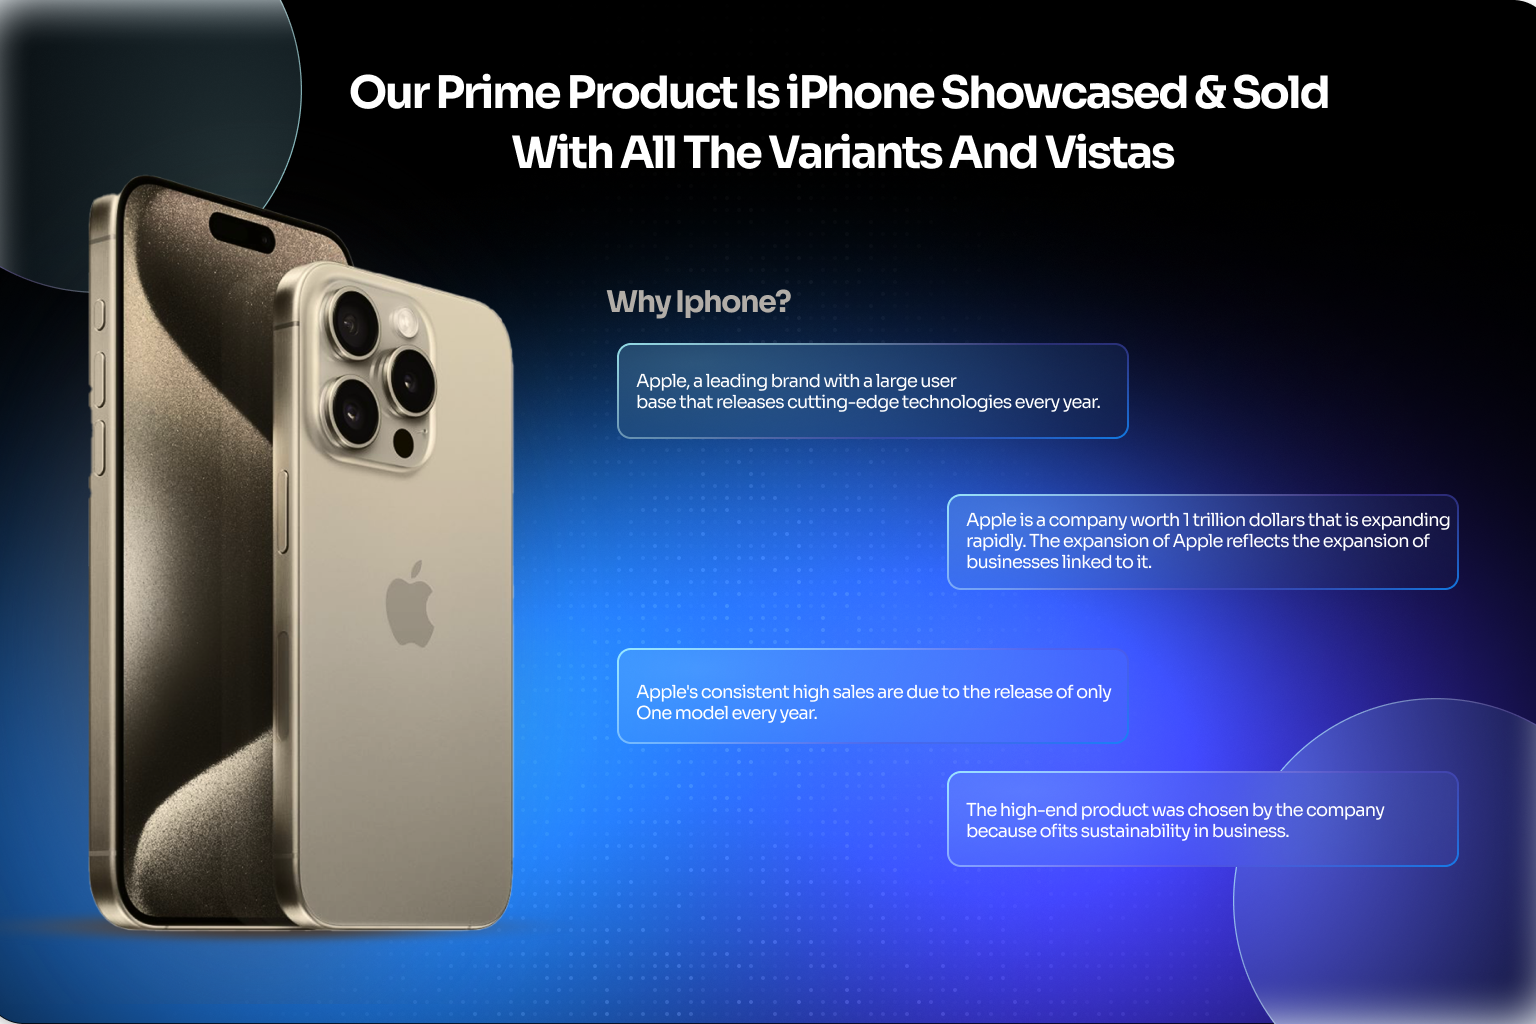
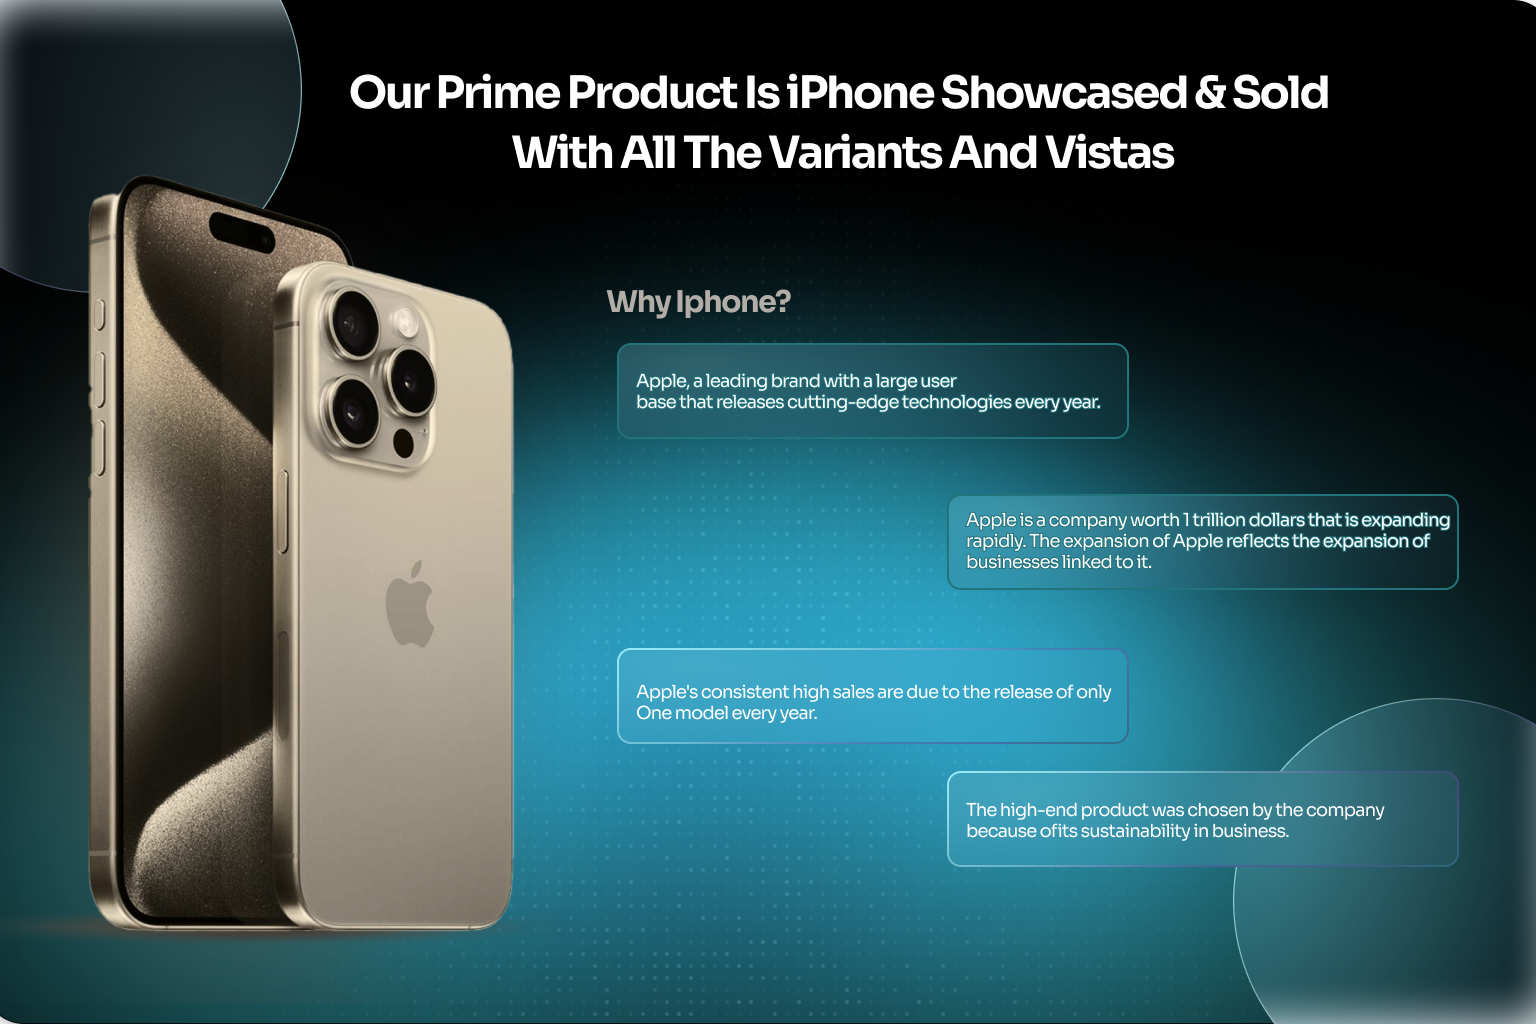
-Updated Colors  for the website as per requirement

diff --git a/components/navigation.tsx b/components/navigation.tsx
@@ -20,7 +20,7 @@ export function Navigation() {
   }, []);
 
   return (
-    <nav className={`w-full h-auto fixed top-0 left-0 right-0 z-50 px-4 py-4 hover:bg-[#001B1D]/95 group transition-all duration-500 ease-in-out ${scrolled ? "bg-[#001B1D]/95" : "bg-black/20"}`}>
+    <nav className={`w-full h-auto fixed top-0 left-0 right-0 z-50 px-4 py-4 hover:bg-[#3B8288]/95 group transition-all duration-500 ease-in-out ${scrolled ? "bg-[#3B8288]/95" : "bg-black/20"}`}>
       <div className="max-w-[90%] mx-auto flex items-center justify-between">
         <a href="/">
         <img src="/files/logo-w.svg" className="h-auto w-[180px]" alt="logo" />
@@ -28,21 +28,21 @@ export function Navigation() {
 
         {/* Desktop Navigation */}
         <div className="hidden md:flex items-center space-x-6">
-          <Link href="/" className="text-white text-center px-10 py-2 font-medium text-lg hover:bg-white hover:text-[#001b1d] rounded-xl transition-colors duration-500 ease-in-out">
+          <Link href="/" className="text-white text-center px-10 py-2 font-medium text-lg hover:bg-white hover:text-[#3B8288] rounded-xl transition-colors duration-500 ease-in-out">
             Home
           </Link>
-          <Link href="/services" className="text-white text-center px-10 py-2 font-medium text-lg hover:bg-white hover:text-[#001b1d] rounded-xl transition-colors duration-500 ease-in-out">
+          <Link href="/services" className="text-white text-center px-10 py-2 font-medium text-lg hover:bg-white hover:text-[#3B8288] rounded-xl transition-colors duration-500 ease-in-out">
             Services
           </Link>
-          <Link href="/contact" className="text-white text-center px-10 py-2 font-medium text-lg hover:bg-white hover:text-[#001b1d] rounded-xl transition-colors duration-500 ease-in-out">
+          <Link href="/contact" className="text-white text-center px-10 py-2 font-medium text-lg hover:bg-white hover:text-[#3B8288] rounded-xl transition-colors duration-500 ease-in-out">
             Contact Us
           </Link>
-          <Link href="/privacy-policy/" className="text-white text-center px-10 py-2 font-medium text-lg hover:bg-white hover:text-[#001b1d] rounded-xl transition-colors duration-500 ease-in-out">
+          <Link href="/privacy-policy/" className="text-white text-center px-10 py-2 font-medium text-lg hover:bg-white hover:text-[#3B8288] rounded-xl transition-colors duration-500 ease-in-out">
             Privacy Policy
           </Link>
         </div>
         <div>
-          <Link href="/" className="hidden md:flex text-white bg-[#001B1D] rounded-2xl text-center px-10 py-2 font-bold text-md group-hover:bg-white group-hover:text-[#001b1d] transition-all duration-500 ease-in-out">Customer Log-in</Link>
+          <Link href="/" className="hidden md:flex text-white bg-[#3B8288] rounded-2xl text-center px-10 py-2 font-bold text-md group-hover:bg-white group-hover:text-[#3B8288] transition-all duration-500 ease-in-out">Customer Log-in</Link>
         </div>
 
         {/* Mobile Menu Button */}
@@ -92,7 +92,7 @@ export function Navigation() {
               <div className="flex justify-center mt-4">
                 <Link
                   href="/"
-                  className="flex items-center justify-center gap-2 w-[220px] text-white bg-[#001B1D] rounded-2xl px-6 py-2 font-bold text-sm hover:bg-white hover:text-[#001B1D] transition-all duration-500 ease-in-out"
+                  className="flex items-center justify-center gap-2 w-[220px] text-white bg-[#3B8288] rounded-2xl px-6 py-2 font-bold text-sm hover:bg-white hover:text-[#3B8288] transition-all duration-500 ease-in-out"
                 >
                   <User className="w-5 h-5" />
                   Customer Log-in

diff --git a/components/privacy-content.tsx b/components/privacy-content.tsx
@@ -92,30 +92,38 @@ Significant updates will be posted on our website and, where appropriate, notifi
     content: `If you have any questions or concerns regarding this Privacy Policy, please contact:
 
 Email: info@konvisteq.com  
-Phone: +92 (51) 123-4567  
+Phone: +92 (51) 6129688  
 
 Office Address:  
 Office No.808, 8th Floor, Pakland Tower-2, New Blue Area (F-9/G-9), Islamabad, Pakistan`,
   },
 ]
 export function PrivacyContent() {
-  const [expandedSections, setExpandedSections] = useState<number[]>([])
+  // Initialize with all indices to have all sections open by default
+  const [expandedSections, setExpandedSections] = useState<number[]>(
+    privacySections.map((_, index) => index)
+  )
 
   const toggleSection = (index: number) => {
-    setExpandedSections((prev) => (prev.includes(index) ? prev.filter((i) => i !== index) : [...prev, index]))
+    setExpandedSections((prev) =>
+      prev.includes(index)
+        ? prev.filter((i) => i !== index) 
+        : [...prev, index]               
+    )
   }
 
   return (
     <section className="py-16 px-4 bg-gray-50 min-h-screen">
       <div className="max-w-4xl mx-auto">
-        
-        {/* Accordion Sections */}
         <div className="space-y-2">
           {privacySections.map((section, index) => {
             const isExpanded = expandedSections.includes(index)
 
             return (
-              <div key={index} className="border-2 border-gray-400 bg-white rounded-lg overflow-hidden">
+              <div
+                key={index}
+                className="border-2 border-gray-400 bg-white rounded-lg overflow-hidden"
+              >
                 <button
                   onClick={() => toggleSection(index)}
                   className="w-full px-6 py-4 text-left flex items-center justify-between hover:bg-gray-50 transition-colors focus:outline-none focus:ring-2 focus:ring-gray-300 focus:ring-inset"
@@ -124,16 +132,18 @@ export function PrivacyContent() {
                     {index + 1}. {section.title}
                   </span>
                   {isExpanded ? (
-                    <ChevronUp className="w-5 h-5 text-gray-500" />
-                  ) : (
                     <ChevronDown className="w-5 h-5 text-gray-500" />
+                  ) : (
+                    <ChevronUp className="w-5 h-5 text-gray-500" />
                   )}
                 </button>
 
                 {isExpanded && (
                   <div className="px-6 pb-6 border-t border-gray-100">
                     <div className="pt-4">
-                      <div className="text-gray-700 leading-relaxed whitespace-pre-line">{section.content}</div>
+                      <div className="text-gray-700 leading-relaxed whitespace-pre-line">
+                        {section.content}
+                      </div>
                     </div>
                   </div>
                 )}
@@ -142,7 +152,6 @@ export function PrivacyContent() {
           })}
         </div>
 
-        {/* Footer */}
         <div className="mt-12 text-center text-sm text-gray-500">
           <p>Last updated: 26-09-2025</p>
         </div>

diff --git a/components/navbar2.tsx b/components/navbar2.tsx
@@ -19,7 +19,7 @@ export function NavigationOP() {
   }, []);
 
   return (
-    <nav className="w-full h-auto fixed top-0 left-0 right-0 z-50 px-4 py-4 bg-[#001B1D]/95 group transition-all duration-500 ease-in-out">
+    <nav className="w-full h-auto fixed top-0 left-0 right-0 z-50 px-4 py-4 bg-[#3B8288]/95 group transition-all duration-500 ease-in-out">
       <div className="max-w-[90%] mx-auto flex items-center justify-between">
         <a href="/">
         <img src="/files/logo-w.svg" className="h-auto w-[180px]" alt="logo" />
@@ -27,21 +27,21 @@ export function NavigationOP() {
 
         {/* Desktop Navigation */}
         <div className="hidden md:flex items-center space-x-6">
-          <Link href="/" className="text-white text-center px-10 py-2 font-medium text-lg hover:bg-white hover:text-[#001b1d] rounded-xl transition-colors duration-500 ease-in-out">
+          <Link href="/" className="text-white text-center px-10 py-2 font-medium text-lg hover:bg-white hover:text-[#3B8288] rounded-xl transition-colors duration-500 ease-in-out">
             Home
           </Link>
-          <Link href="/services" className="text-white text-center px-10 py-2 font-medium text-lg hover:bg-white hover:text-[#001b1d] rounded-xl transition-colors duration-500 ease-in-out">
+          <Link href="/services" className="text-white text-center px-10 py-2 font-medium text-lg hover:bg-white hover:text-[#3B8288] rounded-xl transition-colors duration-500 ease-in-out">
             Services
           </Link>
-          <Link href="/contact" className="text-white text-center px-10 py-2 font-medium text-lg hover:bg-white hover:text-[#001b1d] rounded-xl transition-colors duration-500 ease-in-out">
+          <Link href="/contact" className="text-white text-center px-10 py-2 font-medium text-lg hover:bg-white hover:text-[#3B8288] rounded-xl transition-colors duration-500 ease-in-out">
             Contact Us
           </Link>
-          <Link href="/privacy-policy/" className="text-white text-center px-10 py-2 font-medium text-lg hover:bg-white hover:text-[#001b1d] rounded-xl transition-colors duration-500 ease-in-out">
+          <Link href="/privacy-policy/" className="text-white text-center px-10 py-2 font-medium text-lg hover:bg-white hover:text-[#3B8288] rounded-xl transition-colors duration-500 ease-in-out">
             Privacy Policy
           </Link>
         </div>
         <div>
-          <Link href="/" className="hidden md:flex text-white bg-[#001B1D] rounded-2xl text-center px-10 py-2 font-bold text-md group-hover:bg-white group-hover:text-[#001b1d] transition-all duration-500 ease-in-out">Customer Log-in</Link>
+          <Link href="/" className="hidden md:flex text-white bg-[#3B8288] rounded-2xl text-center px-10 py-2 font-bold text-md group-hover:bg-white group-hover:text-[#001b1d] transition-all duration-500 ease-in-out">Customer Log-in</Link>
         </div>
 
         {/* Mobile Menu Button */}

diff --git a/components/service-details.tsx b/components/service-details.tsx
@@ -3,7 +3,7 @@
 import { useEffect } from "react";
 import AOS from "aos";
 import "aos/dist/aos.css";
-
+import Link from "next/link";
 import { Building, Palette, TrendingUp, Calculator, CheckCircle, Handshake } from "lucide-react";
 import { Card, CardContent } from "@/components/ui/card";
 
@@ -80,7 +80,7 @@ const services = [
 ];
 
 export function ServiceDetails() {
-  // ✅ Initialize AOS on mount
+  // Initialize AOS on mount
   useEffect(() => {
     AOS.init({
       duration: 1000, // animation speed (ms)
@@ -94,16 +94,21 @@ export function ServiceDetails() {
       <div className="max-w-7xl mx-auto">
         <div className="space-y-20">
           {services.map((service, index) => (
-            <div
+            <Link
               key={index}
-              className={`flex flex-col ${
-                index % 2 === 1 ? "lg:flex-row-reverse" : "lg:flex-row"
-              } gap-12 items-center`}
+              href="/services"                        // ✅ destination
+              className={`group flex flex-col cursor-pointer 
+                ${index % 2 === 1 ? "lg:flex-row-reverse" : "lg:flex-row"} 
+                gap-12 items-center`}
               data-aos={index % 2 === 0 ? "fade-right" : "fade-left"}
-              data-aos-delay={index * 100}
+              data-aos-delay={index * 50}
             >
               {/* Image */}
-              <div className="flex-1" data-aos="zoom-in" data-aos-delay={index * 150 + 100}>
+              <div
+                className="flex-1 transition-transform duration-300 group-hover:scale-[1.02]"
+                data-aos="zoom-in"
+                data-aos-delay={index * 150 + 100}
+              >
                 <img
                   src={service.image || "/placeholder.svg"}
                   alt={service.title}
@@ -112,8 +117,12 @@ export function ServiceDetails() {
               </div>
 
               {/* Details */}
-              <div className="flex-1" data-aos="fade-up" data-aos-delay={index * 200 + 150}>
-                <Card className="glass border-0 p-8">
+              <div
+                className="flex-1"
+                data-aos="fade-up"
+                data-aos-delay={index * 200 + 150}
+              >
+                <Card className="glass border-0 p-8 transition-shadow group-hover:shadow-xl">
                   <CardContent className="p-0">
                     <div className="glass rounded-full w-16 h-16 flex items-center justify-center mb-6">
                       <service.icon className="w-8 h-8 text-primary" />
@@ -141,7 +150,7 @@ export function ServiceDetails() {
                   </CardContent>
                 </Card>
               </div>
-            </div>
+            </Link>
           ))}
         </div>
       </div>

diff --git a/components/aboutsection.tsx b/components/aboutsection.tsx
@@ -39,7 +39,7 @@ export function AboutSection() {
 
               {/* Experience Badge */}
               <div
-                className="absolute -top-6 -left-6 bg-teal-500 text-white p-6 rounded-2xl z-10 duration-300 border-8 border-gray-50"
+                className="absolute -top-6 -left-6 bg-[#3B8288] text-white p-6 rounded-2xl z-10 duration-300 border-8 border-gray-50"
                 data-aos="zoom-in"
                 data-aos-delay="200"
               >
@@ -68,7 +68,7 @@ export function AboutSection() {
           {/* Right Side - Content */}
           <div className="space-y-8" data-aos="fade-left">
             {/* Section Header */}
-            <div className="flex items-center gap-2 text-teal-600">
+            <div className="flex items-center gap-2 text-[#3B8288]">
               <span className="font-[Kanit] text-5xl font-extrabold uppercase tracking-wider">
                 About us
               </span>

diff --git a/components/showcasesec.tsx b/components/showcasesec.tsx
@@ -72,7 +72,7 @@ export function ShowcaseSection() {
               <div className="absolute top-6 right-6 space-y-4">
                 {/* Completed Projects Card */}
                 <div
-                  className="bg-black text-white p-6 rounded-xl shadow-lg"
+                  className="bg-[#3B8288] text-white p-6 rounded-xl shadow-lg"
                   data-aos="fade-down"
                   data-aos-delay="500"
                 >
@@ -91,7 +91,7 @@ export function ShowcaseSection() {
 
                 {/* Awards Card */}
                 <div
-                  className="bg-[#001B1D] text-white p-6 rounded-xl shadow-lg"
+                  className="bg-[#23737A]/90 text-white p-6 rounded-xl shadow-lg"
                   data-aos="fade-down"
                   data-aos-delay="700"
                 >

diff --git a/components/contact-info.tsx b/components/contact-info.tsx
@@ -19,7 +19,7 @@ export function ContactInfo() {
 
         <div className="space-y-3">
           <p className="text-gray-800text-2xl font-bold">Office# 808, 8th floor, Pakland Tower-2, New Blue Area (F-9/G-9) Islamabad</p>
-          <p className="text-[#02adc0d8] font-bold text-xl">(050) 123 - 456 78</p>
+          <p className="text-[#02adc0d8] font-bold text-xl">(051) 6129688 </p>
           <p className="text-gray-600 text-xl text-semibold">info@konvisteq.com</p>
         </div>
       </div>

diff --git a/components/hero-carousel.tsx b/components/hero-carousel.tsx
@@ -85,7 +85,7 @@ export function HeroCarousel() {
               data-aos="fade-right"   // <-- Animate heading
             >
               <div>Ready to take your</div>
-              <div className="text-[#02adc0d8] transition-all duration-700">
+              <div className="text-[#31a1ac] transition-all duration-700">
                 {carouselImages[currentSlide].highlight}
               </div>
               <div>to the next level?</div>
